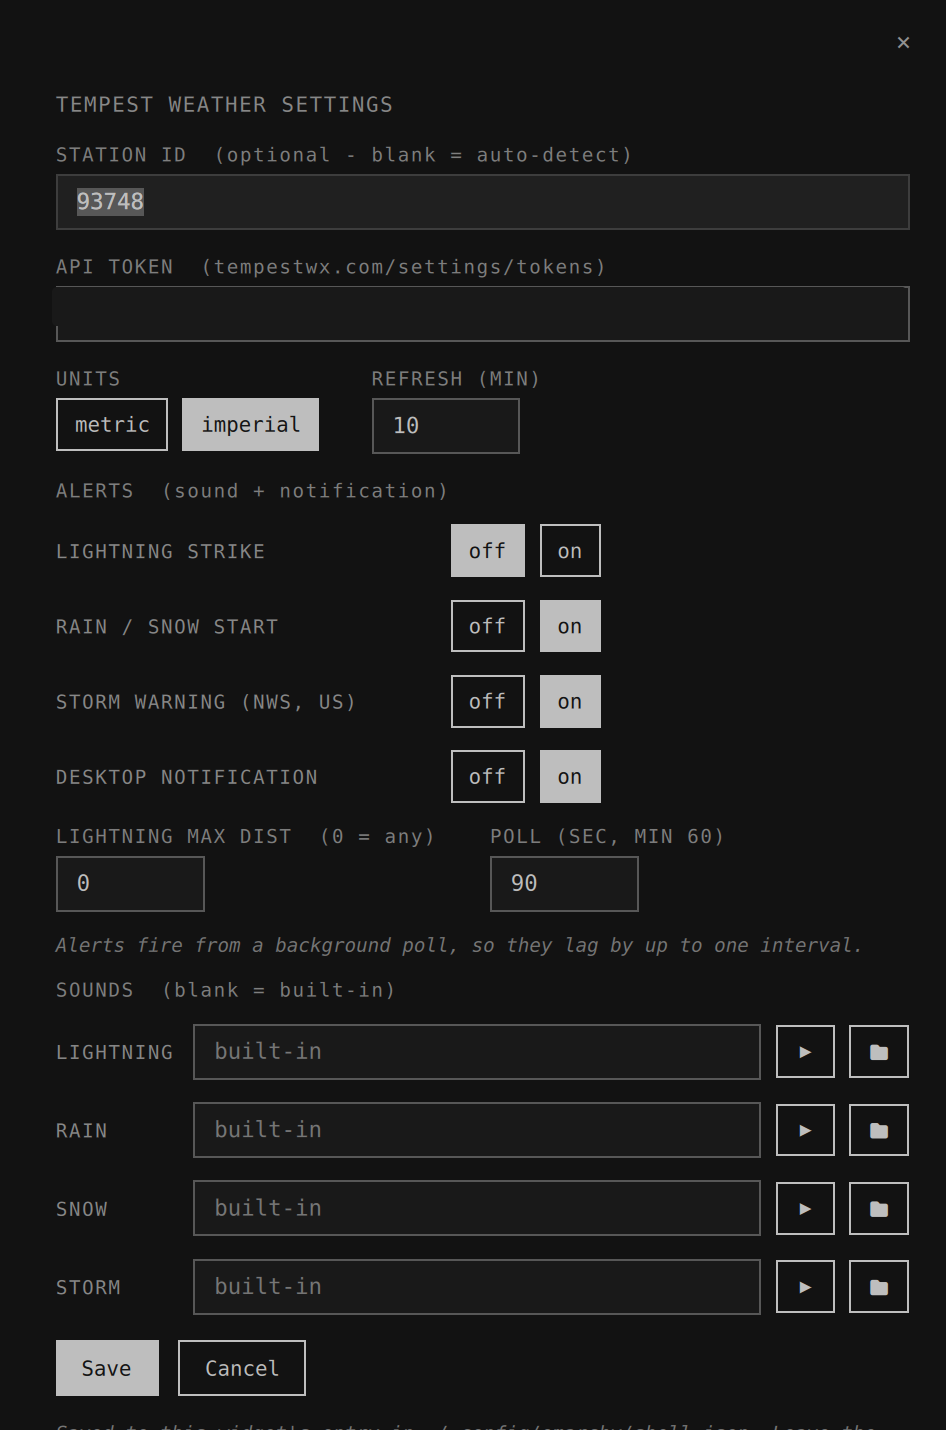
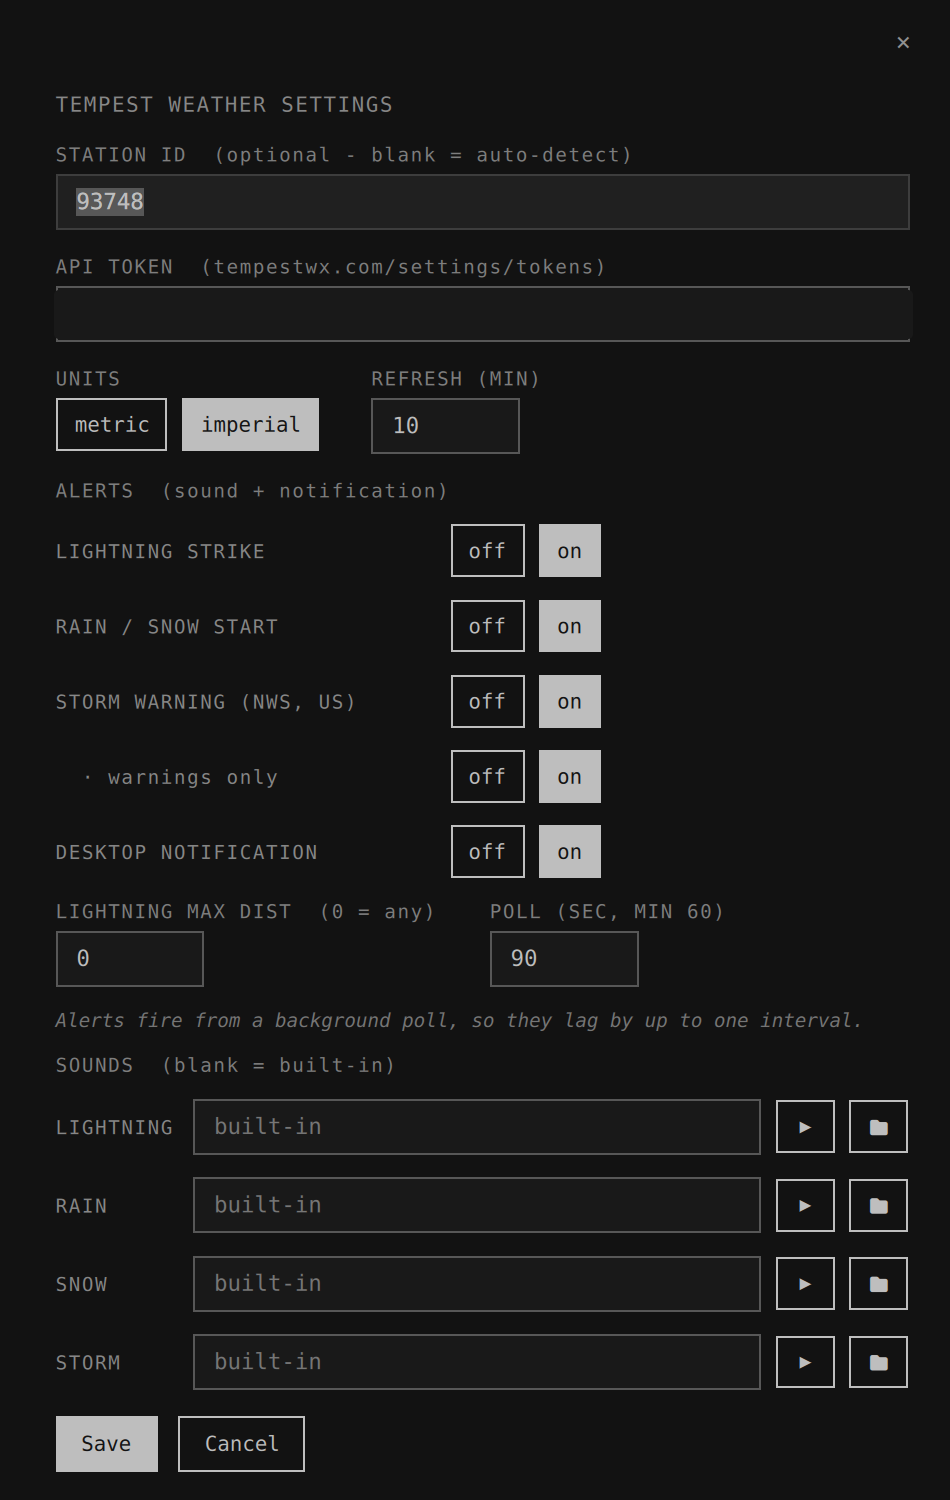
Alerts: NWS "warnings only" toggle
New alertNwsWarningsOnly (default on): drops Watches, Advisories and
Statements, so only actual "... Warning" events fire. Model.nwsQualifies takes
a third `warningsOnly` argument (event name must end in "Warning"). The
severity floor (alertNwsMinSeverity) still applies on top.

- Settings form: a "· warnings only" switch under STORM WARNING, dimmed when
  NWS alerts are off.
- Changing this filter (or alertNwsMinSeverity) re-baselines the alert state,
  so widening it does not immediately sound for something already active.
- manifest schema + defaults; docs and settings.png updated.

Verified: with warnings-only on, the live Severe Thunderstorm *Watch* no
longer produces a banner, pill triangle, or sound; a Warning still would.

Claude-Session: https://claude.ai/code/session_01YGwtqj7er61H2QfdAnwE9A

diff --git a/Panel.qml b/Panel.qml
@@ -293,6 +293,7 @@ Panel {
   property string draftPrecipSound: ""
   property string draftSnowSound: ""
   property string draftAlertNws: "off"
+  property string draftAlertNwsWarn: "on"
   property string draftNwsSound: ""
   property var settingsSaveQueue: []
 
@@ -414,6 +415,7 @@ Panel {
     draftPrecipSound = String(setting("alertPrecipSound", "") || "")
     draftSnowSound = String(setting("alertSnowSound", "") || "")
     draftAlertNws = onOffSetting("alertNws", "off")
+    draftAlertNwsWarn = onOffSetting("alertNwsWarningsOnly", "on")
     draftNwsSound = String(setting("alertNwsSound", "") || "")
     savingSettings = false
     editingSettings = true
@@ -453,6 +455,7 @@ Panel {
       ["alertPrecipSound", draftPrecipSound.replace(/^\s+|\s+$/g, "")],
       ["alertSnowSound", draftSnowSound.replace(/^\s+|\s+$/g, "")],
       ["alertNws", draftAlertNws === "on" ? "on" : "off"],
+      ["alertNwsWarningsOnly", draftAlertNwsWarn === "on" ? "on" : "off"],
       ["alertNwsSound", draftNwsSound.replace(/^\s+|\s+$/g, "")]
     ]
     runNextSettingsSave()
@@ -1265,6 +1268,53 @@ Panel {
                         enabled: !root.savingSettings
                         cursorShape: Qt.PointingHandCursor
                         onClicked: root.draftAlertNws = modelData
+                      }
+                    }
+                  }
+                }
+              }
+
+              Row {
+                width: parent.width
+                spacing: Style.space(12)
+                opacity: root.draftAlertNws === "on" ? 1 : 0.4
+                Text {
+                  width: Style.space(200)
+                  anchors.verticalCenter: parent.verticalCenter
+                  text: "  · warnings only"
+                  color: root.bar ? Qt.darker(root.bar.foreground, 1.4) : "gray"
+                  font.family: root.bar ? root.bar.fontFamily : "monospace"
+                  font.pixelSize: Style.font.caption
+                  font.letterSpacing: 1
+                }
+                Row {
+                  spacing: Style.space(8)
+                  Repeater {
+                    model: ["off", "on"]
+                    Rectangle {
+                      required property var modelData
+                      readonly property bool active: root.draftAlertNwsWarn === modelData
+                      height: Style.space(28)
+                      width: nwoLabel.implicitWidth + Style.space(20)
+                      radius: Style.cornerRadius
+                      color: active ? (root.bar ? root.bar.foreground : "#cacccc") : "transparent"
+                      border.width: active ? 0 : 1
+                      border.color: root.bar ? root.bar.foreground : "#cacccc"
+                      Text {
+                        id: nwoLabel
+                        anchors.centerIn: parent
+                        text: modelData
+                        color: parent.active
+                          ? (root.bar ? root.bar.background : "#101315")
+                          : (root.bar ? root.bar.foreground : "#cacccc")
+                        font.family: root.bar ? root.bar.fontFamily : "monospace"
+                        font.pixelSize: Style.font.bodySmall
+                      }
+                      MouseArea {
+                        anchors.fill: parent
+                        enabled: !root.savingSettings && root.draftAlertNws === "on"
+                        cursorShape: Qt.PointingHandCursor
+                        onClicked: root.draftAlertNwsWarn = modelData
                       }
                     }
                   }

diff --git a/AlertService.qml b/AlertService.qml
@@ -88,6 +88,8 @@ Item {
   readonly property bool alertNws: String(cval("alertNws", "off")).toLowerCase() === "on"
   readonly property string nwsSound: String(cval("alertNwsSound", "")).replace(/^\s+|\s+$/g, "")
   readonly property string nwsMinSeverity: String(cval("alertNwsMinSeverity", "Severe"))
+  // Warnings only (default): drop Watches / Advisories / Statements.
+  readonly property bool nwsWarningsOnly: String(cval("alertNwsWarningsOnly", "on")).toLowerCase() === "on"
 
   readonly property bool anyAlertEnabled: alertLightning || alertPrecipStart || alertNws
   readonly property bool canPoll: anyAlertEnabled && token !== "" && stationId !== ""
@@ -146,6 +148,10 @@ Item {
     if (alertNws) { seenNwsIds = ({}); nwsBaselined = false }
     else { nwsActive = false; nwsAlerts = [] }
   }
+  // Re-baseline when the filter widens/narrows, so the change does not surface
+  // as a fresh alarm for something already active.
+  onNwsWarningsOnlyChanged: if (alertNws) { seenNwsIds = ({}); nwsBaselined = false }
+  onNwsMinSeverityChanged: if (alertNws) { seenNwsIds = ({}); nwsBaselined = false }
 
   // True for a window after the most recent strike, so the bar pill can show a
   // marker. Cleared when lightningClear fires.
@@ -273,7 +279,7 @@ Item {
     var current = []
     for (var i = 0; i < features.length; i++) {
       var p = features[i] ? features[i].properties : null
-      if (!Model.nwsQualifies(p, root.nwsMinSeverity)) continue
+      if (!Model.nwsQualifies(p, root.nwsMinSeverity, root.nwsWarningsOnly)) continue
       current.push(p)
       var id = String(p.id || "")
       if (id === "") continue

diff --git a/Model.js b/Model.js
@@ -251,12 +251,15 @@ var NWS_SEVERITY_ORDER = { "unknown": 0, "minor": 1, "moderate": 2, "severe": 3,
 
 // True when an NWS alert is real, current, and at least as severe as
 // minSeverity (default "Severe" — warnings and the serious watches, not
-// routine advisories). Cancels/acks and test messages are dropped.
-function nwsQualifies(props, minSeverity) {
+// routine advisories). Cancels/acks and test messages are dropped. When
+// warningsOnly is set, Watches / Advisories / Statements are dropped too —
+// only "... Warning" events pass.
+function nwsQualifies(props, minSeverity, warningsOnly) {
   if (!props) return false
   if (String(props.status || "") !== "Actual") return false
   var mt = String(props.messageType || "")
   if (mt !== "Alert" && mt !== "Update") return false
+  if (warningsOnly && !/warning\s*$/i.test(String(props.event || ""))) return false
   var need = NWS_SEVERITY_ORDER[String(minSeverity || "severe").toLowerCase()]
   if (need === undefined) need = 3
   var have = NWS_SEVERITY_ORDER[String(props.severity || "").toLowerCase()]

diff --git a/README.md b/README.md
@@ -137,7 +137,7 @@ happens, plays a sound (and, by default, raises a desktop notification):
 |-------|------------|
 | Lightning strike | `lightning_strike_last_epoch` advances to a strike newer than the service started; optionally only within a distance you set |
 | Rain / snow start | the current conditions cross from dry to wet (a `clear` → `rainy` / `snow` / `thunderstorm` edge) |
-| Storm warning (NWS) | a new US National Weather Service alert for the station's location is issued at severity Severe or Extreme (severe-thunderstorm / tornado / flood warnings, and the serious watches) |
+| Storm warning (NWS) | a new US National Weather Service **warning** for the station's location is issued at severity Severe or Extreme (severe-thunderstorm / tornado / flood warnings). Watches and advisories are excluded by default — turn off "warnings only" to include them. |
 
 The first two are your station's own sensors — hyper-local, real-time. The NWS
 alert is a separate area feed (`api.weather.gov`, US only, no key), keyed off
@@ -186,9 +186,13 @@ in-panel file browser — tap a folder to open it, an audio file to pick it. The
 `alertLightningSound` / `alertPrecipSound` / `alertSnowSound` / `alertNwsSound`
 keys, which you can also set directly in `shell.json`.
 
-`alertNwsMinSeverity` (shell.json only, default `Severe`) widens or narrows what
-counts: set `Moderate` to also alert on advisories and routine watches,
-`Extreme` for life-threatening only.
+Two knobs control which NWS alerts count:
+
+- **warnings only** (`alertNwsWarningsOnly`, default on) — a switch in the
+  ALERTS section. On: only "… Warning" events. Off: also Watches, Advisories,
+  and Statements.
+- `alertNwsMinSeverity` (shell.json only, default `Severe`) — the severity
+  floor. `Moderate` includes more; `Extreme` is life-threatening only.
 
 The service reads the same token, station, and units as the widget, so it needs
 the widget placed on the bar; there is nothing else to configure.

diff --git a/CLAUDE.md b/CLAUDE.md
@@ -98,7 +98,10 @@ refetch kicks off. The ALERTS section rows write `alertLightning`,
   header or it 403s). Coords (`lat`/`lon`) are read from the `better_forecast`
   response in `evaluate()` — no extra Tempest call. `Model.nwsQualifies`
   filters (status Actual, messageType Alert/Update, severity ≥
-  `alertNwsMinSeverity` default "Severe"). `seenNwsIds` de-dups by alert id;
+  `alertNwsMinSeverity` default "Severe", and — when `alertNwsWarningsOnly`,
+  default on — event name ends in "Warning", so Watches/Advisories/Statements
+  drop). Changing either filter re-baselines (`onNwsWarningsOnlyChanged` /
+  `onNwsMinSeverityChanged`) so it isn't a fresh alarm. `seenNwsIds` de-dups by alert id;
   `nwsBaselined` makes the first post-startup poll adopt active alerts silently
   (like precip's baseline). `nwsActive` → warning triangle (`0xf071`) on the
   pill, alongside the lightning bolt. Bundled `sounds/nws.ogg`; override

diff --git a/CHANGELOG.md b/CHANGELOG.md
@@ -25,8 +25,10 @@
   (`api.weather.gov/alerts/active`, no key). Off by default; toggled with
   `alertNws`, its own bundled sound (`sounds/nws.ogg`, overridable via
   `alertNwsSound` or the form's SOUNDS block). Fires on a newly issued alert at
-  severity Severe/Extreme (`alertNwsMinSeverity` widens/narrows this); alerts
-  already active when the service starts are adopted silently. Station
+  severity Severe/Extreme (`alertNwsMinSeverity` widens/narrows this) and, by
+  default, only actual Warnings — a "warnings only" switch
+  (`alertNwsWarningsOnly`, default on) drops Watches / Advisories / Statements.
+  Alerts already active when the service starts are adopted silently. Station
   coordinates come from the forecast response — no extra config. The pill shows
   a warning triangle while an NWS alert is active, and the popup shows a banner
   with the event, the NWS headline, an inline **full text** expander, and a
